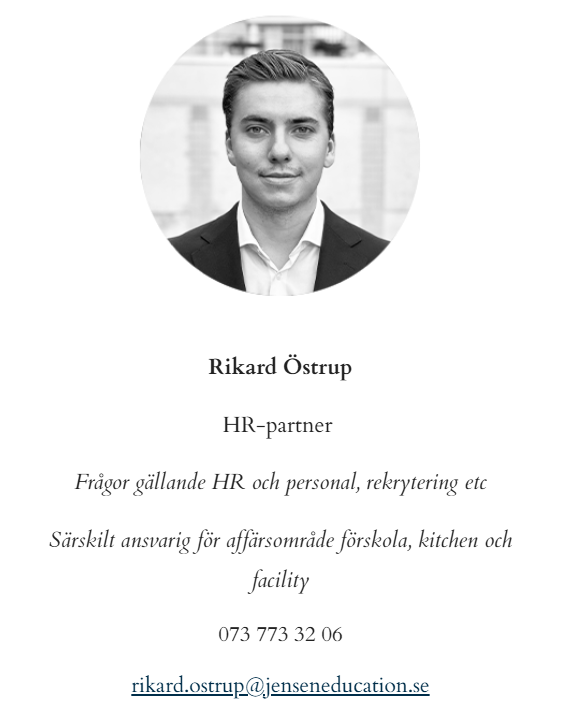
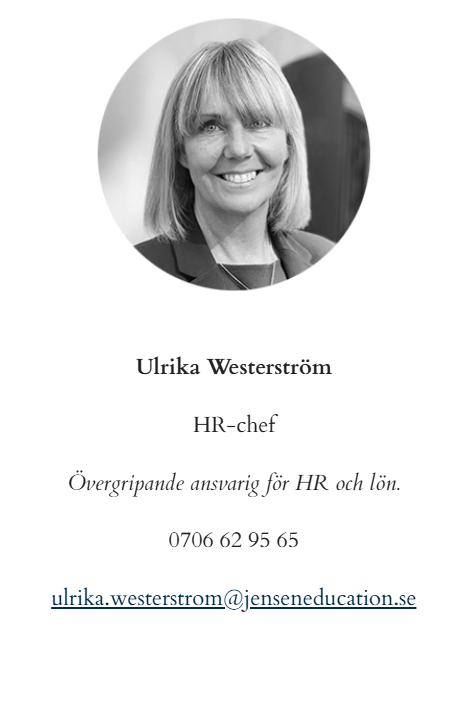
UI: nav in header, Kontakter layout, Dina rättigheter tab, add Irina
- Move tab nav into header bar (alongside logo, JENSEN-style)
- Kontakter: HR row (Rikard + Irina), Ledning row (Leif + Ulrika)
- Add "Dina rättigheter" tab with 8-card summary of SFS 2021:890
- Add Irina_HR.png, Dennis_quality.png; update Ulrika_boss.png
- Chat wrap height adjusted for single header bar

diff --git a/index.html b/index.html
@@ -18,20 +18,21 @@
         <span class="logo-subtitle">Whistleblower</span>
       </div>
     </div>
+
+    <nav id="tab-nav">
+      <button class="tab-btn active" data-tab="anmal" onclick="handleTab('anmal')">Anmäl ärende</button>
+      <button class="tab-btn" data-tab="mina" onclick="handleTab('mina')">Mina ärenden</button>
+      <button class="tab-btn" data-tab="kontakter" onclick="handleTab('kontakter')">Kontakter</button>
+      <button class="tab-btn" data-tab="skydd" onclick="handleTab('skydd')">Dina rättigheter</button>
+      <button class="tab-btn" data-tab="admin" onclick="handleTab('admin')">HR &amp; Admin</button>
+    </nav>
+
     <div style="display:flex;align-items:center;gap:16px;">
       <div id="header-profile" style="display:none;"></div>
       <button id="btn-logout" class="btn btn-outline" style="display:none;">Logga ut</button>
     </div>
   </div>
 </header>
-
-<!-- ── TAB NAVIGATION ─────────────────────────────────────── -->
-<nav id="tab-nav">
-  <button class="tab-btn active" data-tab="anmal" onclick="handleTab('anmal')">Anmäl ärende</button>
-  <button class="tab-btn" data-tab="mina" onclick="handleTab('mina')">Mina ärenden</button>
-  <button class="tab-btn" data-tab="kontakter" onclick="handleTab('kontakter')">Kontakter</button>
-  <button class="tab-btn" data-tab="admin" onclick="handleTab('admin')">HR &amp; Admin</button>
-</nav>
 
 <main>
 
@@ -111,8 +112,8 @@
         <h1><em>Kontakta</em> HR &amp; ledning</h1>
         <p class="lead">Vill du ta direkt kontakt med HR eller din chef? Nedan hittar du kontaktuppgifter. Kom ihåg att du alltid kan anmäla anonymt via fliken "Anmäl ärende".</p>
 
-        <div class="contact-grid">
-
+        <p class="contact-section-label">HR</p>
+        <div class="contact-grid contact-grid-hr">
           <div class="contact-card">
             <img src="Pictures_of_HR_contacts/Rikard_HR.png" alt="Rikard Östrup">
             <div class="contact-info">
@@ -121,7 +122,18 @@
               <span class="r-badge badge-hr">HR</span>
             </div>
           </div>
+          <div class="contact-card">
+            <img src="Pictures_of_HR_contacts/Irina_HR.png" alt="Irina">
+            <div class="contact-info">
+              <div class="contact-name">Irina</div>
+              <div class="contact-title">HR</div>
+              <span class="r-badge badge-hr">HR</span>
+            </div>
+          </div>
+        </div>
 
+        <p class="contact-section-label" style="margin-top:40px;">Ledning</p>
+        <div class="contact-grid contact-grid-mgmt">
           <div class="contact-card">
             <img src="Pictures_of_HR_contacts/Leif_Boss.png" alt="Leif Glavå">
             <div class="contact-info">
@@ -130,7 +142,6 @@
               <span class="r-badge badge-mgmt">Ledning</span>
             </div>
           </div>
-
           <div class="contact-card">
             <img src="Pictures_of_HR_contacts/Ulrika_boss.png" alt="Ulrika">
             <div class="contact-info">
@@ -139,12 +150,77 @@
               <span class="r-badge badge-mgmt">Ledning</span>
             </div>
           </div>
-
         </div>
 
         <div class="trust-items" style="margin-top:40px;">
           <div class="trust-item"><span class="trust-icon">🔒</span><span>Vill du vara anonym? Använd "Anmäl ärende"</span></div>
           <div class="trust-item"><span class="trust-icon">⚖</span><span>Du är skyddad av visselblåsarlagen</span></div>
+        </div>
+      </div>
+    </div>
+
+    <!-- Panel: Skydd / Dina rättigheter -->
+    <div class="tab-panel" id="panel-skydd">
+      <div class="landing-panel skydd-panel">
+        <h1><em>Dina</em> rättigheter</h1>
+        <p class="lead">Lag (2021:890) om skydd för personer som rapporterar om missförhållanden — en sammanfattning av vad lagen innebär för dig som anställd på JENSEN.</p>
+
+        <div class="law-grid">
+
+          <div class="law-card">
+            <div class="law-icon">🛡</div>
+            <h3>Vem skyddas?</h3>
+            <p>Du skyddas om du är anställd, praktikant, volontär, konsult eller f.d. anställd hos JENSEN. Skyddet gäller även den som sökt ett jobb och rapporterar om missförhållanden de fått kännedom om under rekryteringsprocessen.</p>
+          </div>
+
+          <div class="law-card">
+            <div class="law-icon">📋</div>
+            <h3>Vad kan rapporteras?</h3>
+            <p>Missförhållanden av allmänintresse – till exempel brott mot lagar och regler, korruption, säkerhetsrisker, diskriminering, trakasserier eller andra allvarliga oegentligheter inom organisationen.</p>
+          </div>
+
+          <div class="law-card">
+            <div class="law-icon">🚫</div>
+            <h3>Förbjudna repressalier</h3>
+            <p>Arbetsgivaren får <strong>inte</strong> vidta åtgärder som bestraffar dig för att du rapporterat. Förbudet gäller uppsägning, degradering, lönesänkning, förändrade arbetsuppgifter, trakasserier, negativt omdöme eller utfrysning.</p>
+          </div>
+
+          <div class="law-card">
+            <div class="law-icon">⚖</div>
+            <h3>Omvänd bevisbörda</h3>
+            <p>Om du påstår att du utsatts för repressalier på grund av din rapport, är det <strong>arbetsgivaren</strong> som måste bevisa att åtgärden inte hade något samband med din rapportering – inte du.</p>
+          </div>
+
+          <div class="law-card">
+            <div class="law-icon">🔒</div>
+            <h3>Anonymitet och sekretess</h3>
+            <p>Din identitet ska skyddas i rapporteringsprocessen. Intern personal som hanterar ärenden är bunden av tystnadsplikt och får inte röja vem som lämnat rapporten.</p>
+          </div>
+
+          <div class="law-card">
+            <div class="law-icon">⏱</div>
+            <h3>Tidsfrister för svar</h3>
+            <p>Organisationen ska bekräfta att din rapport mottagits inom <strong>7 dagar</strong>. Du ska sedan få återkoppling om ärendets handläggning och utfall inom <strong>3 månader</strong>.</p>
+          </div>
+
+          <div class="law-card">
+            <div class="law-icon">📣</div>
+            <h3>Tre rapporteringsvägar</h3>
+            <p><strong>1. Internt</strong> – via denna tjänst direkt till HR/ledning.<br>
+               <strong>2. Externt</strong> – till behörig tillsynsmyndighet (t.ex. Arbetsmiljöverket, Ekobrottsmyndigheten).<br>
+               <strong>3. Offentliggörande</strong> – till media, som sista utväg om de andra kanalerna inte fungerat.</p>
+          </div>
+
+          <div class="law-card">
+            <div class="law-icon">💰</div>
+            <h3>Skadestånd</h3>
+            <p>Om du utsätts för repressalier i strid med lagen har du rätt till skadestånd – både för ekonomisk förlust och för kränkning. Arbetsgivaren kan även dömas att betala allmänt skadestånd.</p>
+          </div>
+
+        </div>
+
+        <div class="law-footer">
+          <p>Fullständig lagtext: <a href="https://www.riksdagen.se/sv/dokument-och-lagar/dokument/svensk-forfattningssamling/lag-2021890-om-skydd-for-personer-som_sfs-2021-890/" target="_blank" rel="noopener">SFS 2021:890 på riksdagen.se</a></p>
         </div>
       </div>
     </div>

diff --git a/style.css b/style.css
@@ -40,25 +40,31 @@ a:hover { text-decoration: underline; }
 #header {
   background: var(--navy);
   padding: 0 32px;
-  height: 68px;
+  height: 72px;
   display: flex;
-  align-items: center;
+  align-items: stretch;
   position: sticky;
   top: 0;
   z-index: 200;
   box-shadow: 0 2px 12px rgba(0,0,0,.25);
 }
 .header-inner {
-  max-width: 1060px;
+  max-width: 1200px;
   width: 100%;
   margin: 0 auto;
   display: flex;
   justify-content: space-between;
-  align-items: center;
+  align-items: stretch;
 }
-.logo { display: flex; align-items: center; gap: 14px; }
+.logo {
+  display: flex;
+  align-items: center;
+  gap: 14px;
+  flex-shrink: 0;
+  padding-right: 24px;
+}
 .logo-img {
-  width: 52px; height: 52px;
+  width: 46px; height: 46px;
   object-fit: contain;
   flex-shrink: 0;
 }
@@ -71,44 +77,40 @@ a:hover { text-decoration: underline; }
   color: #ffffff;
   font-family: 'Playfair Display', Georgia, serif;
   font-weight: 700;
-  font-size: 17px;
+  font-size: 16px;
   letter-spacing: 2px;
   text-transform: uppercase;
 }
 .logo-subtitle {
   color: var(--gold);
-  font-size: 11px;
+  font-size: 10px;
   letter-spacing: 1.5px;
   text-transform: uppercase;
   font-weight: 500;
 }
 
-/* ── TAB NAV ─────────────────────────────── */
+/* ── TAB NAV (inside header) ─────────────── */
 #tab-nav {
-  background: var(--navy);
-  border-top: 1px solid rgba(255,255,255,.08);
   display: flex;
-  justify-content: center;
+  align-items: stretch;
   gap: 0;
-  position: sticky;
-  top: 68px;
-  z-index: 190;
+  flex: 1;
 }
 .tab-btn {
   background: transparent;
   border: none;
   border-bottom: 3px solid transparent;
-  color: rgba(255,255,255,.75);
-  font-size: 13px;
+  color: rgba(255,255,255,.65);
+  font-size: 12.5px;
   font-weight: 600;
-  letter-spacing: 1px;
+  letter-spacing: .9px;
   text-transform: uppercase;
   cursor: pointer;
-  padding: 16px 28px;
-  transition: all .2s;
+  padding: 0 20px;
+  transition: color .2s, border-color .2s;
   display: flex;
   align-items: center;
-  gap: 7px;
+  white-space: nowrap;
 }
 .tab-btn:hover { color: #fff; }
 .tab-btn.active {
@@ -450,7 +452,7 @@ a:hover { text-decoration: underline; }
   padding: 24px 32px;
   display: flex;
   flex-direction: column;
-  height: calc(100vh - 120px);
+  height: calc(100vh - 72px);
 }
 .chat-head {
   display: flex;
@@ -542,12 +544,21 @@ a:hover { text-decoration: underline; }
 }
 
 /* ── CONTACT CARDS ───────────────────────── */
-.kontakter-panel { text-align: center; max-width: 1000px; }
+.kontakter-panel { text-align: center; max-width: 1100px; }
+.contact-section-label {
+  font-size: 11px;
+  font-weight: 700;
+  letter-spacing: 1.5px;
+  text-transform: uppercase;
+  color: var(--muted);
+  margin: 32px 0 16px;
+  text-align: left;
+}
 .contact-grid {
-  display: grid;
-  grid-template-columns: repeat(auto-fit, minmax(260px, 1fr));
-  gap: 28px;
-  margin-top: 40px;
+  display: flex;
+  justify-content: center;
+  gap: 24px;
+  flex-wrap: wrap;
 }
 .contact-card {
   background: var(--card);
@@ -557,6 +568,8 @@ a:hover { text-decoration: underline; }
   box-shadow: var(--shadow);
   transition: box-shadow .2s, border-color .2s;
   text-align: center;
+  width: 240px;
+  flex-shrink: 0;
 }
 .contact-card:hover {
   border-color: var(--gold);
@@ -570,20 +583,64 @@ a:hover { text-decoration: underline; }
   display: block;
 }
 .contact-info {
-  padding: 18px 20px 22px;
+  padding: 16px 18px 20px;
 }
 .contact-name {
   font-family: 'Playfair Display', Georgia, serif;
-  font-size: 18px;
+  font-size: 17px;
   font-weight: 700;
   color: var(--navy);
   margin-bottom: 4px;
 }
 .contact-title {
-  font-size: 13px;
+  font-size: 12px;
   color: var(--muted);
   margin-bottom: 10px;
   line-height: 1.4;
+}
+
+/* ── LAW CARDS ───────────────────────────── */
+.skydd-panel { text-align: left; max-width: 1000px; }
+.skydd-panel h1, .skydd-panel .lead { text-align: center; }
+.law-grid {
+  display: grid;
+  grid-template-columns: repeat(auto-fit, minmax(280px, 1fr));
+  gap: 20px;
+  margin-top: 40px;
+}
+.law-card {
+  background: var(--card);
+  border: 1.5px solid var(--border);
+  border-radius: 10px;
+  padding: 24px 22px;
+  box-shadow: var(--shadow);
+}
+.law-icon {
+  font-size: 28px;
+  margin-bottom: 12px;
+}
+.law-card h3 {
+  font-family: 'Playfair Display', Georgia, serif;
+  font-size: 16px;
+  font-weight: 700;
+  color: var(--navy);
+  margin-bottom: 10px;
+}
+.law-card p {
+  font-size: 13.5px;
+  color: var(--muted);
+  line-height: 1.7;
+}
+.law-card p strong { color: var(--text); }
+.law-footer {
+  margin-top: 40px;
+  padding: 18px 22px;
+  background: var(--bg-alt);
+  border: 1px solid var(--border);
+  border-radius: var(--radius);
+  font-size: 13px;
+  color: var(--muted);
+  text-align: center;
 }
 
 /* ── DIVIDER ─────────────────────────────── */
@@ -594,10 +651,15 @@ a:hover { text-decoration: underline; }
 }
 
 /* ── RESPONSIVE ──────────────────────────── */
+@media (max-width: 900px) {
+  .tab-btn { padding: 0 12px; font-size: 11px; letter-spacing: .5px; }
+  .logo-subtitle { display: none; }
+}
 @media (max-width: 640px) {
-  .tab-btn { padding: 12px 16px; font-size: 12px; }
+  #tab-nav { display: none; }
   .landing-panel { padding: 40px 20px; }
   .landing-panel h1 { font-size: 28px; }
   .form-wrap, .dash-wrap, .chat-wrap { padding: 28px 20px; }
   .bubble { max-width: 88%; }
+  .contact-card { width: 100%; }
 }
